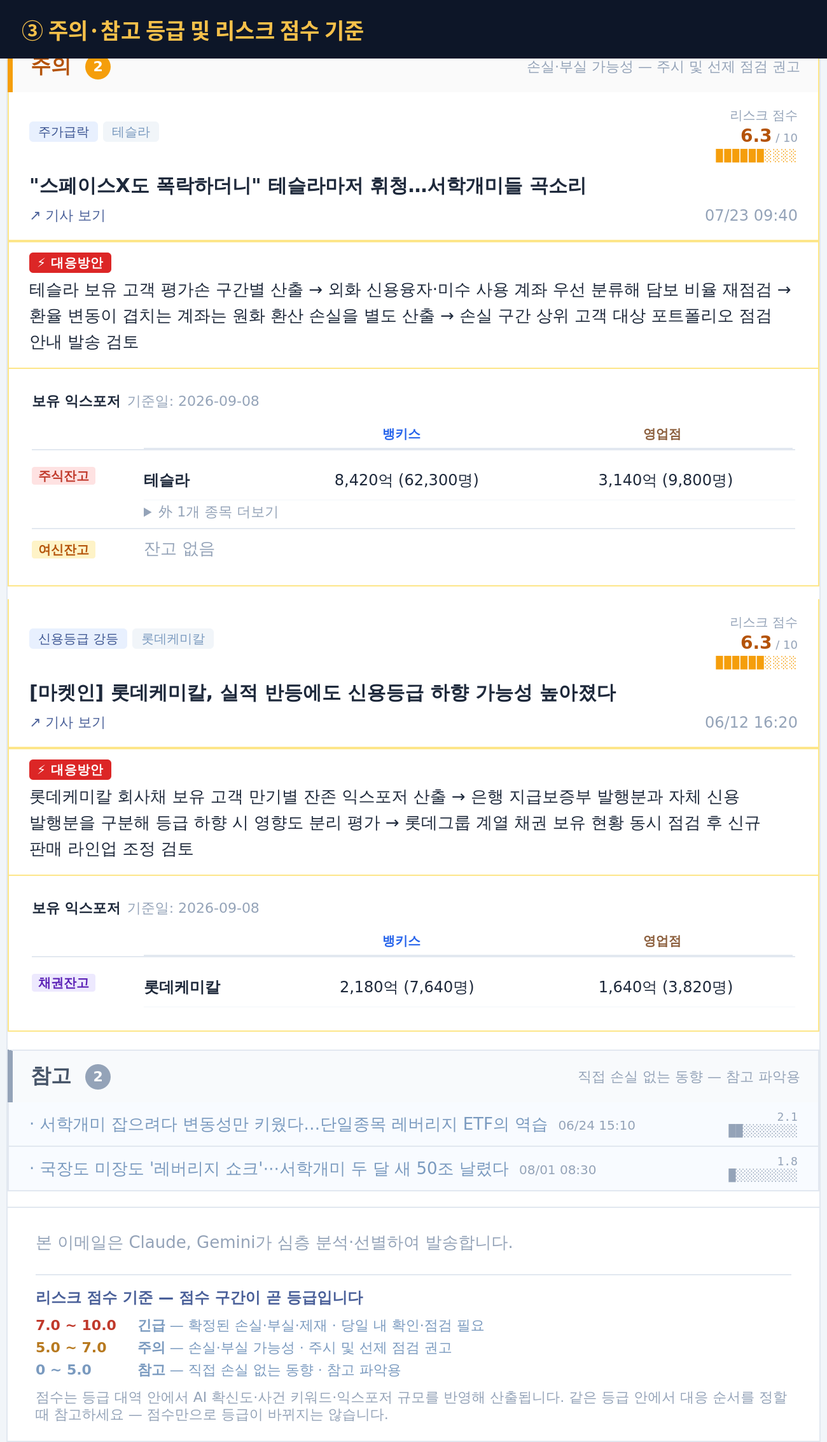
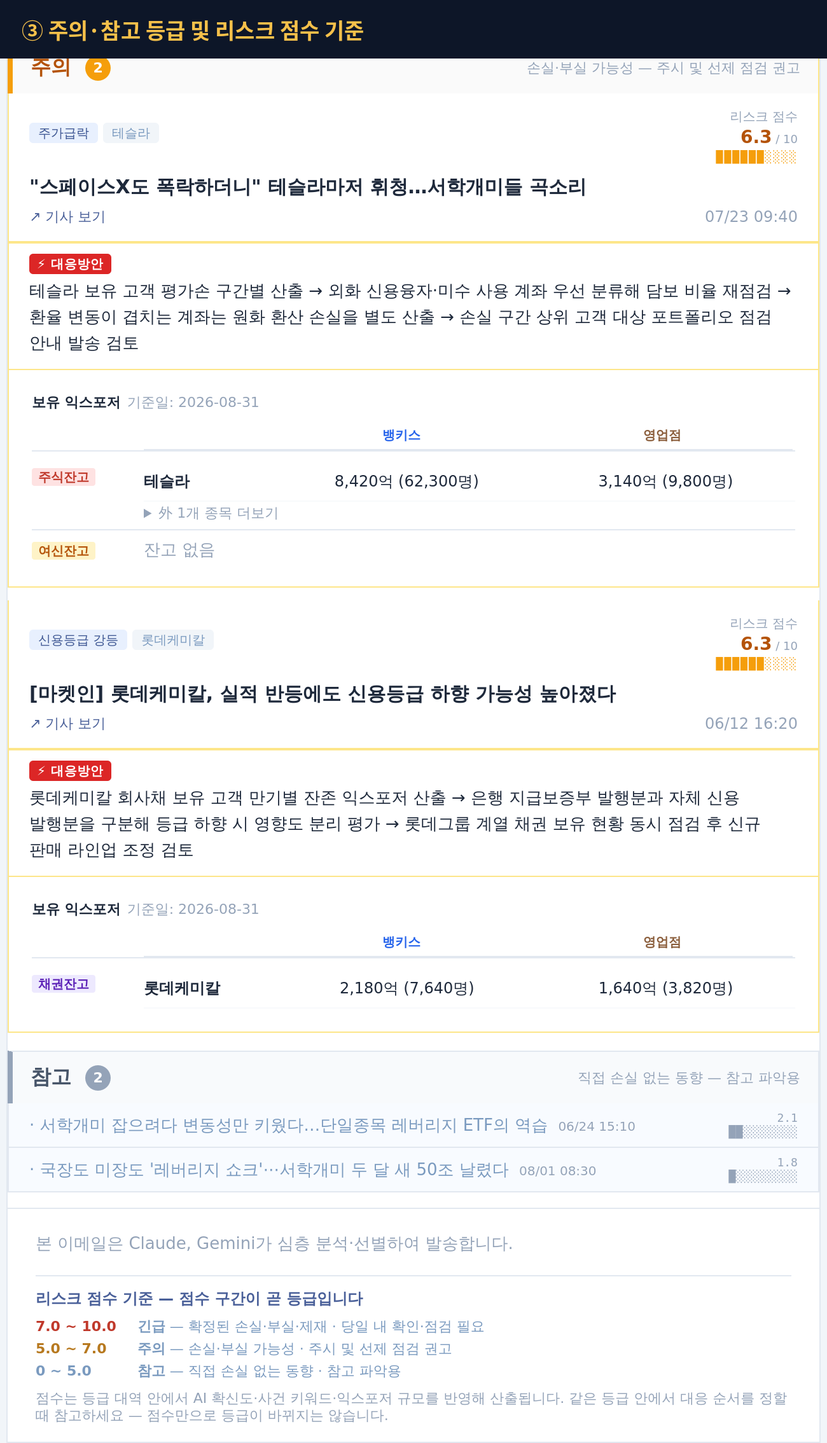
기준일 8/31 · 여신잔고 리스크 현황 실제 낙폭 반영

diff --git a/index.html b/index.html
@@ -66,7 +66,7 @@
           <td valign="middle">
             <p style="margin:0 0 4px 0;font-size:19px;font-weight:bold;color:#ffffff;">🤖 리스크 탐지봇</p>
             <p style="margin:0 0 3px 0;font-size:10px;color:#c8d8f0;text-align:right;">Claude Sonnet / Gemini 3.5-flash-lite</p>
-            <p style="margin:0;font-size:13px;color:#c8d8f0;">2026년 09월 08일 07:00 기준 (KST)</p>
+            <p style="margin:0;font-size:13px;color:#c8d8f0;">2026년 08월 31일 21:00 기준 (KST)</p>
           </td>
         </tr>
       </table>
@@ -94,7 +94,7 @@
           <table width="100%" cellpadding="0" cellspacing="0" border="0">
             <tr>
               <td><span style="font-size:15px;font-weight:bold;color:#3b5491;">경쟁사 신용·대출 특이사항</span></td>
-              <td align="right"><span style="font-size:12px;color:#94a3b8;">2026-09-08 당일 기준</span></td>
+              <td align="right"><span style="font-size:12px;color:#94a3b8;">2026-08-31 당일 기준</span></td>
             </tr>
           </table>
         </td>
@@ -105,18 +105,88 @@
             <tr>
           <td width="100" valign="middle" style="padding:7px 4px;font-size:13px;font-weight:bold;color:#1e293b;border-bottom:1px solid #dce8ff;">A증권</td>
           <td valign="middle" style="padding:7px 4px;font-size:13px;border-bottom:1px solid #dce8ff;">단일종목 레버리지 ETF 신용융자 담보비율 상향(140%→170%)</td>
-          <td align="right" valign="middle" style="padding:7px 4px;font-size:11px;color:#94a3b8;white-space:nowrap;border-bottom:1px solid #dce8ff;">09/08</td>
+          <td align="right" valign="middle" style="padding:7px 4px;font-size:11px;color:#94a3b8;white-space:nowrap;border-bottom:1px solid #dce8ff;">08/31</td>
         </tr><tr>
           <td width="100" valign="middle" style="padding:7px 4px;font-size:13px;font-weight:bold;color:#1e293b;">B증권</td>
           <td valign="middle" style="padding:7px 4px;font-size:13px;">콘텐트리중앙 등 3종목 대용증권 지정 해제 및 신용거래 중지</td>
-          <td align="right" valign="middle" style="padding:7px 4px;font-size:11px;color:#94a3b8;white-space:nowrap;">09/08</td>
+          <td align="right" valign="middle" style="padding:7px 4px;font-size:11px;color:#94a3b8;white-space:nowrap;">08/31</td>
         </tr>
           </table>
         </td>
       </tr>
     </table></td></tr>
 
-  <tr><td style="padding:0;"></td></tr>
+  <tr><td style="padding:0;">
+    <table width="100%" cellpadding="0" cellspacing="0" border="0" style="margin-top:14px;border:1px solid #e2e8f0;border-top:3px solid #475569;">
+      <tr>
+        <td bgcolor="#1e293b" style="padding:10px 14px;background:#1e293b;">
+          <table width="100%" cellpadding="0" cellspacing="0" border="0">
+            <tr>
+              <td style="font-size:14px;font-weight:500;color:#f8fafc;white-space:nowrap;">📉 여신잔고 리스크 현황</td>
+              <td align="right" style="font-size:11px;padding-left:10px;white-space:nowrap;"><span style="color:#2563eb;">●</span><span style="color:#ffffff;font-weight:700;"> 뱅키스</span> &nbsp;<span style="color:#8b5e3c;">●</span><span style="color:#ffffff;font-weight:700;"> 영업점</span></td>
+            </tr>
+            <tr>
+              <td colspan="2" style="padding-top:3px;">
+                <span style="font-size:12px;color:#fbbf24;">⚠ 위험고객: 단일종목 여신잔고 1억원이상 · 담보유지비율 140%~150%</span>
+              </td>
+            </tr>
+            <tr>
+              <td colspan="2" class="loan-hdr-right" style="font-size:11px;color:#94a3b8;padding-top:2px;white-space:nowrap;">단일종목 여신잔고 1억↑ 종목 6개 · 08월 31일 기준</td>
+            </tr>
+          </table>
+        </td>
+      </tr>
+      <tr><td bgcolor="#ffffff" style="background:#ffffff;">
+        <!--[if mso]><table width="100%" cellpadding="0" cellspacing="0" border="0"><tr>
+          <td width="16%"><![endif]-->
+        <table cellpadding="0" cellspacing="0" border="0" class="price-alert-table" style="border-collapse:collapse;width:100%;">
+
+          <thead>
+            <tr bgcolor="#f8fafc" style="background:#f8fafc;border-bottom:1px solid #e2e8f0;">
+              <th style="padding:7px 3px;font-size:11px;color:#64748b;font-weight:500;text-align:center;">종목명</th>
+              <th style="padding:7px 3px;font-size:11px;color:#64748b;font-weight:500;text-align:center;">전체 여신</th>
+              <th style="padding:7px 3px;font-size:11px;color:#d97706;font-weight:600;text-align:center;">⚠ 위험고객</th>
+              <th style="padding:7px 3px;font-size:11px;color:#dc2626;font-weight:600;text-align:center;">최고 리스크</th>
+            </tr>
+          </thead>
+          <tbody>
+            <tr style="background:#fafcff;border-bottom:1px solid #f1f5f9;">
+              <td class="price-alert-td" style="padding:8px 3px;text-align:center;white-space:nowrap;">
+                <div style="font-size:13px;font-weight:600;color:#1e293b;">두산에너빌리티</div>
+                <div style="font-size:10px;font-weight:700;color:#2563eb;margin-top:2px;">▼5.4%</div>
+              </td>
+              <td class="price-alert-td" style="padding:8px 3px;font-size:11px;font-weight:600;text-align:center;white-space:nowrap;"><div style="color:#2563eb;">● 2,260억 (4,870명)</div><div style="margin-top:3px;color:#8b5e3c;">● 1,740억 (1,310명)</div></td>
+              <td style="padding:8px 3px;font-size:11px;font-weight:600;text-align:center;white-space:nowrap;"><div style="color:#2563eb;">● 158억 (64명)</div><div style="margin-top:3px;color:#8b5e3c;">● 48억 (13명)</div></td>
+              <td style="padding:8px 3px;font-size:11px;font-weight:600;text-align:center;white-space:nowrap;"><div><span style="color:#2563eb;">●</span> <span style="color:#dc2626;font-weight:700;">141%</span> <span style="color:#64748b;font-weight:400;">(26억·홍*동)</span></div><div style="margin-top:3px;"><span style="color:#8b5e3c;">●</span> <span style="color:#dc2626;font-weight:700;">144%</span> <span style="color:#64748b;font-weight:400;">(19억·강*우)</span></div></td>
+            </tr>
+            <tr style="background:#ffffff;border-bottom:1px solid #f1f5f9;">
+              <td class="price-alert-td" style="padding:8px 3px;text-align:center;white-space:nowrap;">
+                <div style="font-size:13px;font-weight:600;color:#1e293b;">알테오젠</div>
+                <div style="font-size:10px;font-weight:700;color:#2563eb;margin-top:2px;">▼6.4%</div>
+              </td>
+              <td class="price-alert-td" style="padding:8px 3px;font-size:11px;font-weight:600;text-align:center;white-space:nowrap;"><div style="color:#2563eb;">● 1,380억 (3,140명)</div><div style="margin-top:3px;color:#8b5e3c;">● 740억 (560명)</div></td>
+              <td style="padding:8px 3px;font-size:11px;font-weight:600;text-align:center;white-space:nowrap;"><div style="color:#2563eb;">● 131억 (52명)</div><div style="margin-top:3px;color:#8b5e3c;">● 34억 (11명)</div></td>
+              <td style="padding:8px 3px;font-size:11px;font-weight:600;text-align:center;white-space:nowrap;"><div><span style="color:#2563eb;">●</span> <span style="color:#dc2626;font-weight:700;">143%</span> <span style="color:#64748b;font-weight:400;">(23억·권*빈)</span></div><div style="margin-top:3px;"><span style="color:#8b5e3c;">●</span> <span style="color:#dc2626;font-weight:700;">147%</span> <span style="color:#64748b;font-weight:400;">(13억·차*진)</span></div></td>
+            </tr>
+            <tr style="background:#fafcff;border-bottom:1px solid #f1f5f9;">
+              <td class="price-alert-td" style="padding:8px 3px;text-align:center;white-space:nowrap;">
+                <div style="font-size:13px;font-weight:600;color:#1e293b;">삼성전기</div>
+                <div style="font-size:10px;font-weight:700;color:#2563eb;margin-top:2px;">▼5.1%</div>
+              </td>
+              <td class="price-alert-td" style="padding:8px 3px;font-size:11px;font-weight:600;text-align:center;white-space:nowrap;"><div style="color:#2563eb;">● 1,820억 (3,960명)</div><div style="margin-top:3px;color:#8b5e3c;">● 1,240억 (880명)</div></td>
+              <td style="padding:8px 3px;font-size:11px;font-weight:600;text-align:center;white-space:nowrap;"><div style="color:#2563eb;">● 119억 (47명)</div><div style="margin-top:3px;color:#8b5e3c;">● 32억 (9명)</div></td>
+              <td style="padding:8px 3px;font-size:11px;font-weight:600;text-align:center;white-space:nowrap;"><div><span style="color:#2563eb;">●</span> <span style="color:#dc2626;font-weight:700;">143%</span> <span style="color:#64748b;font-weight:400;">(21억·서*민)</span></div><div style="margin-top:3px;"><span style="color:#8b5e3c;">●</span> <span style="color:#dc2626;font-weight:700;">146%</span> <span style="color:#64748b;font-weight:400;">(15억·오*재)</span></div></td>
+            </tr>
+            <tr style="background:#fff3cd;"><td colspan="4" style="padding:8px 10px;font-size:11px;color:#92400e;font-weight:600;border-top:1px solid #fde68a;">&#9888; 외 3개 종목 추가 탐지 — 담당자 즉시 확인 <span style="font-weight:400;color:#b45309;font-size:10px;">(에이비엘바이오, 리가켐바이오, SK스퀘어)</span></td></tr>
+            <tr bgcolor="#fafafa" style="background:#fafafa;">
+              <td colspan="4" style="padding:7px 10px;font-size:12px;color:#94a3b8;border-top:1px solid #e2e8f0;">
+                가격·등락률 출처: 야후파이낸스 (15분 지연) &nbsp;·&nbsp; 당일 -3% 초과 하락 + 위험고객 보유 종목만 표시
+              </td>
+            </tr>
+          </tbody>
+        </table>
+      </td></tr>
+    </table></td></tr>
 
   <tr><td style="padding:0;">
     <table width="100%" cellpadding="0" cellspacing="0" border="0" style="margin-top:14px;border-top:3px solid #3b5491;border-bottom:1px solid #e2e8f0;background:#f8fafc;">
@@ -164,7 +234,7 @@
           </tr>
           <tr><td bgcolor="#fff8f8" style="background:#fff8f8;border-top:1px solid #fecaca;padding:0;"><table width="100%" cellpadding="0" cellspacing="0" border="0"><tr><td class="action-td" bgcolor="#ffffff" style="padding:10px 16px;border-bottom:1px solid #fecaca;background:#ffffff;"><p style="margin:0 0 5px 0;font-size:11px;font-weight:bold;letter-spacing:0.3px;"><span style="background:#dc2626;color:#fff;padding:2px 6px;font-size:10px;margin-right:5px;border-radius:3px;">⚡ 대응방안</span></p><p style="margin:0;font-size:12px;color:#1e293b;line-height:1.6;font-weight:600;word-break:keep-all;">중앙그룹 계열 채권·CP·전단채 보유 고객 전수 추출 → 종목별 만기와 매입 시점 확인해 회생채권 신고 대상 분류 → 콘텐트리중앙은 매매거래 정지 상태이므로 주식 보유 계좌의 대용증권 편입분 즉시 재평가 → 계열 전반 신규 판매 중단 조치 후 리테일 채널 안내문 배포 → 회생채권 신고기한을 고객별로 개별 통지하고 결과를 컴플라이언스부·리스크관리부에 보고</p></td></tr><tr><td class="care-td" bgcolor="#f8fafc" style="padding:10px 16px;background:#f8fafc;border-top:1px solid #e2e8f0;"><p style="margin:0 0 5px 0;font-size:11px;font-weight:bold;letter-spacing:0.3px;"><span style="background:#2563eb;color:#fff;padding:2px 6px;font-size:10px;margin-right:5px;border-radius:3px;">✦ AI</span><span style="color:#334155;">고객케어 안내 추천 문구</span></p><p style="margin:0;font-size:12px;color:#334155;line-height:1.7;white-space:pre-line;word-break:keep-all;">[한국투자증권] 긴급 안내 보유하신 채권의 발행사가 기업회생절차 개시를 신청했습니다. 회생절차가 개시되면 변제 조건이 변경될 수 있으며 채권 신고기한이 별도로 정해집니다. 보유 수량과 만기를 즉시 확인하시기 바랍니다.</p></td></tr><tr><td style="padding:0;border-top:1px solid #e2e8f0;border-bottom:1px solid #fecaca;background:#ffffff;"><table width="100%" cellpadding="0" cellspacing="0" border="0" style="background:#ffffff;">
       <tr><td class="exp-card-td" style="padding:14px 18px;">
-        <p style="margin:0 0 10px 0;"><span style="font-size:11px;font-weight:700;color:#1e293b;">보유 익스포저</span> <span style="font-weight:400;color:#94a3b8;font-size:11px;">기준일: 2026-09-08</span></p>
+        <p style="margin:0 0 10px 0;"><span style="font-size:11px;font-weight:700;color:#1e293b;">보유 익스포저</span> <span style="font-weight:400;color:#94a3b8;font-size:11px;">기준일: 2026-08-31</span></p>
         <table width="100%" cellpadding="0" cellspacing="0" border="0" style="margin-bottom:8px;"><tr><td style="width:80px;border-bottom:1px solid #e2e8f0;">&nbsp;</td><td style="padding-left:8px;border-bottom:1px solid #e2e8f0;"><table cellpadding="0" cellspacing="0" border="0" style="border-collapse:collapse;table-layout:fixed;"><tr><td class="exp-name-td" width="100" style="border-bottom:1px solid #e2e8f0;">&nbsp;</td><td class="exp-val-td" width="205" align="center" style="box-sizing:border-box;text-align:center;padding:2px 6px 5px;font-size:10px;font-weight:700;color:#2563eb;border-bottom:1px solid #e2e8f0;white-space:nowrap;">뱅키스</td><td class="exp-val-td" width="205" align="center" style="box-sizing:border-box;text-align:center;padding:2px 6px 5px;font-size:10px;font-weight:700;color:#8b5e3c;border-bottom:1px solid #e2e8f0;white-space:nowrap;">영업점</td></tr></table></td></tr></table><table width="100%" cellpadding="0" cellspacing="0" border="0" style="margin-bottom:4px;"><tr><td valign="top" style="padding-top:6px;width:80px;white-space:nowrap;"><span style="font-size:10px;background:#fee2e2;color:#c0392b;padding:1px 5px;border-radius:2px;font-weight:700;">주식잔고</span></td><td style="padding-left:8px;"><table cellpadding="0" cellspacing="0" border="0" style="border-collapse:collapse;table-layout:fixed;"><tr style="border-bottom:1px solid #f8fafc;"><td class="exp-name-td" width="100" style="font-size:12px;font-weight:700;color:#1e293b;padding:8px 6px 8px 0;white-space:nowrap;vertical-align:top;"><div style="max-width:100%;overflow:hidden;text-overflow:ellipsis;white-space:nowrap;">콘텐트리중앙</div></td><td class="exp-val-td" width="205" align="center" style="box-sizing:border-box;text-align:center;font-size:12px;color:#1e293b;padding:8px 6px;white-space:nowrap;vertical-align:top;">860억 (12,400명)</td><td class="exp-val-td" width="205" align="center" style="box-sizing:border-box;text-align:center;font-size:12px;color:#1e293b;padding:8px 6px;white-space:nowrap;vertical-align:top;">420억 (3,100명)</td></tr></table></td></tr></table><table width="100%" cellpadding="0" cellspacing="0" border="0" style="margin:4px 0;"><tr><td style="height:1px;background:#e2e8f0;font-size:0;line-height:0;">&nbsp;</td></tr></table><table width="100%" cellpadding="0" cellspacing="0" border="0" style="margin-bottom:4px;"><tr><td valign="top" style="padding-top:6px;width:80px;white-space:nowrap;"><span style="font-size:10px;background:#fef3c7;color:#b45309;padding:1px 5px;border-radius:2px;font-weight:700;">여신잔고</span></td><td style="padding-left:8px;"><div style="font-size:13px;color:#94a3b8;line-height:1.7;">잔고 없음</div></td></tr></table><table width="100%" cellpadding="0" cellspacing="0" border="0" style="margin:4px 0;"><tr><td style="height:1px;background:#e2e8f0;font-size:0;line-height:0;">&nbsp;</td></tr></table><table width="100%" cellpadding="0" cellspacing="0" border="0" style="margin-bottom:4px;"><tr><td valign="top" style="padding-top:6px;width:80px;white-space:nowrap;"><span style="font-size:10px;background:#ede9fe;color:#5b21b6;padding:1px 5px;border-radius:2px;font-weight:700;">채권잔고</span></td><td style="padding-left:8px;"><table cellpadding="0" cellspacing="0" border="0" style="border-collapse:collapse;table-layout:fixed;"><tr style="border-bottom:1px solid #f8fafc;"><td class="exp-name-td" width="100" style="font-size:12px;font-weight:700;color:#1e293b;padding:8px 6px 8px 0;white-space:nowrap;vertical-align:top;"><div style="max-width:100%;overflow:hidden;text-overflow:ellipsis;white-space:nowrap;">중앙홀딩스</div></td><td class="exp-val-td" width="205" align="center" style="box-sizing:border-box;text-align:center;font-size:12px;color:#1e293b;padding:8px 6px;white-space:nowrap;vertical-align:top;">1,240억 (4,300명)</td><td class="exp-val-td" width="205" align="center" style="box-sizing:border-box;text-align:center;font-size:12px;color:#1e293b;padding:8px 6px;white-space:nowrap;vertical-align:top;">880억 (2,100명)</td></tr></table><details style="margin-top:0;"><summary style="cursor:pointer;list-style:revert;padding:2px 0;font-size:11px;color:#94a3b8;">外 5개 종목 더보기</summary><table cellpadding="0" cellspacing="0" border="0" style="border-collapse:collapse;table-layout:fixed;"><tr style="border-bottom:1px solid #f8fafc;"><td class="exp-name-td" width="100" style="font-size:12px;font-weight:700;color:#1e293b;padding:8px 6px 8px 0;white-space:nowrap;vertical-align:top;"><div style="max-width:100%;overflow:hidden;text-overflow:ellipsis;white-space:nowrap;">제이티비씨</div></td><td class="exp-val-td" width="205" align="center" style="box-sizing:border-box;text-align:center;font-size:12px;color:#1e293b;padding:8px 6px;white-space:nowrap;vertical-align:top;">1,080억 (3,960명)</td><td class="exp-val-td" width="205" align="center" style="box-sizing:border-box;text-align:center;font-size:12px;color:#1e293b;padding:8px 6px;white-space:nowrap;vertical-align:top;">640억 (1,820명)</td></tr><tr style="border-bottom:1px solid #f8fafc;"><td class="exp-name-td" width="100" style="font-size:12px;font-weight:700;color:#1e293b;padding:8px 6px 8px 0;white-space:nowrap;vertical-align:top;"><div style="max-width:100%;overflow:hidden;text-overflow:ellipsis;white-space:nowrap;">중앙일보</div></td><td class="exp-val-td" width="205" align="center" style="box-sizing:border-box;text-align:center;font-size:12px;color:#1e293b;padding:8px 6px;white-space:nowrap;vertical-align:top;">760억 (2,840명)</td><td class="exp-val-td" width="205" align="center" style="box-sizing:border-box;text-align:center;font-size:12px;color:#1e293b;padding:8px 6px;white-space:nowrap;vertical-align:top;">510억 (1,460명)</td></tr><tr style="border-bottom:1px solid #f8fafc;"><td class="exp-name-td" width="100" style="font-size:12px;font-weight:700;color:#1e293b;padding:8px 6px 8px 0;white-space:nowrap;vertical-align:top;"><div style="max-width:100%;overflow:hidden;text-overflow:ellipsis;white-space:nowrap;">에스엘엘중앙</div></td><td class="exp-val-td" width="205" align="center" style="box-sizing:border-box;text-align:center;font-size:12px;color:#1e293b;padding:8px 6px;white-space:nowrap;vertical-align:top;">620억 (2,180명)</td><td class="exp-val-td" width="205" align="center" style="box-sizing:border-box;text-align:center;font-size:12px;color:#1e293b;padding:8px 6px;white-space:nowrap;vertical-align:top;">390억 (1,120명)</td></tr><tr style="border-bottom:1px solid #f8fafc;"><td class="exp-name-td" width="100" style="font-size:12px;font-weight:700;color:#1e293b;padding:8px 6px 8px 0;white-space:nowrap;vertical-align:top;"><div style="max-width:100%;overflow:hidden;text-overflow:ellipsis;white-space:nowrap;">메가박스중앙</div></td><td class="exp-val-td" width="205" align="center" style="box-sizing:border-box;text-align:center;font-size:12px;color:#1e293b;padding:8px 6px;white-space:nowrap;vertical-align:top;">540억 (1,980명)</td><td class="exp-val-td" width="205" align="center" style="box-sizing:border-box;text-align:center;font-size:12px;color:#1e293b;padding:8px 6px;white-space:nowrap;vertical-align:top;">380억 (1,140명)</td></tr><tr style="border-bottom:1px solid #f8fafc;"><td class="exp-name-td" width="100" style="font-size:12px;font-weight:700;color:#1e293b;padding:8px 6px 8px 0;white-space:nowrap;vertical-align:top;"><div style="max-width:100%;overflow:hidden;text-overflow:ellipsis;white-space:nowrap;">중앙피앤아이</div></td><td class="exp-val-td" width="205" align="center" style="box-sizing:border-box;text-align:center;font-size:12px;color:#1e293b;padding:8px 6px;white-space:nowrap;vertical-align:top;">310억 (1,240명)</td><td class="exp-val-td" width="205" align="center" style="box-sizing:border-box;text-align:center;font-size:12px;color:#1e293b;padding:8px 6px;white-space:nowrap;vertical-align:top;">180억 (640명)</td></tr></table></details></td></tr></table>
       </td></tr>
     </table></td></tr></table></td></tr>
@@ -191,7 +261,7 @@
           <tr><td bgcolor="#fff8f8" style="background:#fff8f8;border-top:1px solid #fecaca;padding:0;"><table width="100%" cellpadding="0" cellspacing="0" border="0"><tr><td class="action-td" bgcolor="#ffffff" style="padding:10px 16px;border-bottom:1px solid #fecaca;background:#ffffff;"><p style="margin:0 0 5px 0;font-size:11px;font-weight:bold;letter-spacing:0.3px;"><span style="background:#dc2626;color:#fff;padding:2px 6px;font-size:10px;margin-right:5px;border-radius:3px;">⚡ 대응방안</span></p><p style="margin:0;font-size:12px;color:#1e293b;line-height:1.6;font-weight:600;word-break:keep-all;">장애 발생 구간의 미체결·오주문 내역 추출 → 접속 지연으로 매매 기회를 놓친 고객 민원 유입 대비해 콜센터 응대 스크립트 사전 배포 → 동일 시간대 신용융자 반대매매 예정 계좌는 수기 확인 후 처리 → 재발 방지 조치와 보상 기준을 소비자보호부와 사전 협의</p></td></tr><tr><td style="padding:0;border-top:1px solid #e2e8f0;border-bottom:1px solid #fecaca;background:#ffffff;"><table width="100%" cellpadding="0" cellspacing="0" border="0" style="background:#ffffff;">
       <tr><td style="padding:10px 16px;">
         <p style="margin:0 0 4px 0;font-size:11px;font-weight:700;color:#1e293b;">보유 익스포저
-          <span style="font-weight:400;color:#94a3b8;">기준일: 2026-09-08</span>
+          <span style="font-weight:400;color:#94a3b8;">기준일: 2026-08-31</span>
         </p>
         <div style="font-size:12px;color:#94a3b8;">잔고 없음</div>
       </td></tr>
@@ -228,7 +298,7 @@
           </tr>
           <tr><td style="padding:10px 16px;background:#ffffff;border-top:1px solid #fde68a;border-bottom:1px solid #fde68a;"><p style="margin:0 0 5px 0;font-size:11px;font-weight:bold;letter-spacing:0.3px;"><span style="background:#dc2626;color:#fff;padding:2px 6px;font-size:10px;margin-right:5px;border-radius:3px;">⚡ 대응방안</span></p><p style="margin:0;font-size:13px;color:#1e293b;line-height:1.6;font-weight:500;word-break:keep-all;">테슬라 보유 고객 평가손 구간별 산출 → 외화 신용융자·미수 사용 계좌 우선 분류해 담보 비율 재점검 → 환율 변동이 겹치는 계좌는 원화 환산 손실을 별도 산출 → 손실 구간 상위 고객 대상 포트폴리오 점검 안내 발송 검토</p></td></tr><tr><td style="padding:0;"><table width="100%" cellpadding="0" cellspacing="0" border="0" style="background:#ffffff;">
       <tr><td class="exp-card-td" style="padding:14px 18px;">
-        <p style="margin:0 0 10px 0;"><span style="font-size:11px;font-weight:700;color:#1e293b;">보유 익스포저</span> <span style="font-weight:400;color:#94a3b8;font-size:11px;">기준일: 2026-09-08</span></p>
+        <p style="margin:0 0 10px 0;"><span style="font-size:11px;font-weight:700;color:#1e293b;">보유 익스포저</span> <span style="font-weight:400;color:#94a3b8;font-size:11px;">기준일: 2026-08-31</span></p>
         <table width="100%" cellpadding="0" cellspacing="0" border="0" style="margin-bottom:8px;"><tr><td style="width:80px;border-bottom:1px solid #e2e8f0;">&nbsp;</td><td style="padding-left:8px;border-bottom:1px solid #e2e8f0;"><table cellpadding="0" cellspacing="0" border="0" style="border-collapse:collapse;table-layout:fixed;"><tr><td class="exp-name-td" width="100" style="border-bottom:1px solid #e2e8f0;">&nbsp;</td><td class="exp-val-td" width="205" align="center" style="box-sizing:border-box;text-align:center;padding:2px 6px 5px;font-size:10px;font-weight:700;color:#2563eb;border-bottom:1px solid #e2e8f0;white-space:nowrap;">뱅키스</td><td class="exp-val-td" width="205" align="center" style="box-sizing:border-box;text-align:center;padding:2px 6px 5px;font-size:10px;font-weight:700;color:#8b5e3c;border-bottom:1px solid #e2e8f0;white-space:nowrap;">영업점</td></tr></table></td></tr></table><table width="100%" cellpadding="0" cellspacing="0" border="0" style="margin-bottom:4px;"><tr><td valign="top" style="padding-top:6px;width:80px;white-space:nowrap;"><span style="font-size:10px;background:#fee2e2;color:#c0392b;padding:1px 5px;border-radius:2px;font-weight:700;">주식잔고</span></td><td style="padding-left:8px;"><table cellpadding="0" cellspacing="0" border="0" style="border-collapse:collapse;table-layout:fixed;"><tr style="border-bottom:1px solid #f8fafc;"><td class="exp-name-td" width="100" style="font-size:12px;font-weight:700;color:#1e293b;padding:8px 6px 8px 0;white-space:nowrap;vertical-align:top;"><div style="max-width:100%;overflow:hidden;text-overflow:ellipsis;white-space:nowrap;">테슬라</div></td><td class="exp-val-td" width="205" align="center" style="box-sizing:border-box;text-align:center;font-size:12px;color:#1e293b;padding:8px 6px;white-space:nowrap;vertical-align:top;">8,420억 (62,300명)</td><td class="exp-val-td" width="205" align="center" style="box-sizing:border-box;text-align:center;font-size:12px;color:#1e293b;padding:8px 6px;white-space:nowrap;vertical-align:top;">3,140억 (9,800명)</td></tr></table><details style="margin-top:0;"><summary style="cursor:pointer;list-style:revert;padding:2px 0;font-size:11px;color:#94a3b8;">外 1개 종목 더보기</summary><table cellpadding="0" cellspacing="0" border="0" style="border-collapse:collapse;table-layout:fixed;"><tr style="border-bottom:1px solid #f8fafc;"><td class="exp-name-td" width="100" style="font-size:12px;font-weight:700;color:#1e293b;padding:8px 6px 8px 0;white-space:nowrap;vertical-align:top;"><div style="max-width:100%;overflow:hidden;text-overflow:ellipsis;white-space:nowrap;">스페이스엑스</div></td><td class="exp-val-td" width="205" align="center" style="box-sizing:border-box;text-align:center;font-size:12px;color:#1e293b;padding:8px 6px;white-space:nowrap;vertical-align:top;">4,260억 (38,700명)</td><td class="exp-val-td" width="205" align="center" style="box-sizing:border-box;text-align:center;font-size:12px;color:#1e293b;padding:8px 6px;white-space:nowrap;vertical-align:top;">1,580억 (6,200명)</td></tr></table></details></td></tr></table><table width="100%" cellpadding="0" cellspacing="0" border="0" style="margin:4px 0;"><tr><td style="height:1px;background:#e2e8f0;font-size:0;line-height:0;">&nbsp;</td></tr></table><table width="100%" cellpadding="0" cellspacing="0" border="0" style="margin-bottom:4px;"><tr><td valign="top" style="padding-top:6px;width:80px;white-space:nowrap;"><span style="font-size:10px;background:#fef3c7;color:#b45309;padding:1px 5px;border-radius:2px;font-weight:700;">여신잔고</span></td><td style="padding-left:8px;"><div style="font-size:13px;color:#94a3b8;line-height:1.7;">잔고 없음</div></td></tr></table>
       </td></tr>
     </table></td></tr>
@@ -253,7 +323,7 @@
           </tr>
           <tr><td style="padding:10px 16px;background:#ffffff;border-top:1px solid #fde68a;border-bottom:1px solid #fde68a;"><p style="margin:0 0 5px 0;font-size:11px;font-weight:bold;letter-spacing:0.3px;"><span style="background:#dc2626;color:#fff;padding:2px 6px;font-size:10px;margin-right:5px;border-radius:3px;">⚡ 대응방안</span></p><p style="margin:0;font-size:13px;color:#1e293b;line-height:1.6;font-weight:500;word-break:keep-all;">롯데케미칼 회사채 보유 고객 만기별 잔존 익스포저 산출 → 은행 지급보증부 발행분과 자체 신용 발행분을 구분해 등급 하향 시 영향도 분리 평가 → 롯데그룹 계열 채권 보유 현황 동시 점검 후 신규 판매 라인업 조정 검토</p></td></tr><tr><td style="padding:0;"><table width="100%" cellpadding="0" cellspacing="0" border="0" style="background:#ffffff;">
       <tr><td class="exp-card-td" style="padding:14px 18px;">
-        <p style="margin:0 0 10px 0;"><span style="font-size:11px;font-weight:700;color:#1e293b;">보유 익스포저</span> <span style="font-weight:400;color:#94a3b8;font-size:11px;">기준일: 2026-09-08</span></p>
+        <p style="margin:0 0 10px 0;"><span style="font-size:11px;font-weight:700;color:#1e293b;">보유 익스포저</span> <span style="font-weight:400;color:#94a3b8;font-size:11px;">기준일: 2026-08-31</span></p>
         <table width="100%" cellpadding="0" cellspacing="0" border="0" style="margin-bottom:8px;"><tr><td style="width:80px;border-bottom:1px solid #e2e8f0;">&nbsp;</td><td style="padding-left:8px;border-bottom:1px solid #e2e8f0;"><table cellpadding="0" cellspacing="0" border="0" style="border-collapse:collapse;table-layout:fixed;"><tr><td class="exp-name-td" width="100" style="border-bottom:1px solid #e2e8f0;">&nbsp;</td><td class="exp-val-td" width="205" align="center" style="box-sizing:border-box;text-align:center;padding:2px 6px 5px;font-size:10px;font-weight:700;color:#2563eb;border-bottom:1px solid #e2e8f0;white-space:nowrap;">뱅키스</td><td class="exp-val-td" width="205" align="center" style="box-sizing:border-box;text-align:center;padding:2px 6px 5px;font-size:10px;font-weight:700;color:#8b5e3c;border-bottom:1px solid #e2e8f0;white-space:nowrap;">영업점</td></tr></table></td></tr></table><table width="100%" cellpadding="0" cellspacing="0" border="0" style="margin-bottom:4px;"><tr><td valign="top" style="padding-top:6px;width:80px;white-space:nowrap;"><span style="font-size:10px;background:#ede9fe;color:#5b21b6;padding:1px 5px;border-radius:2px;font-weight:700;">채권잔고</span></td><td style="padding-left:8px;"><table cellpadding="0" cellspacing="0" border="0" style="border-collapse:collapse;table-layout:fixed;"><tr style="border-bottom:1px solid #f8fafc;"><td class="exp-name-td" width="100" style="font-size:12px;font-weight:700;color:#1e293b;padding:8px 6px 8px 0;white-space:nowrap;vertical-align:top;"><div style="max-width:100%;overflow:hidden;text-overflow:ellipsis;white-space:nowrap;">롯데케미칼</div></td><td class="exp-val-td" width="205" align="center" style="box-sizing:border-box;text-align:center;font-size:12px;color:#1e293b;padding:8px 6px;white-space:nowrap;vertical-align:top;">2,180억 (7,640명)</td><td class="exp-val-td" width="205" align="center" style="box-sizing:border-box;text-align:center;font-size:12px;color:#1e293b;padding:8px 6px;white-space:nowrap;vertical-align:top;">1,640억 (3,820명)</td></tr></table></td></tr></table>
       </td></tr>
     </table></td></tr>
